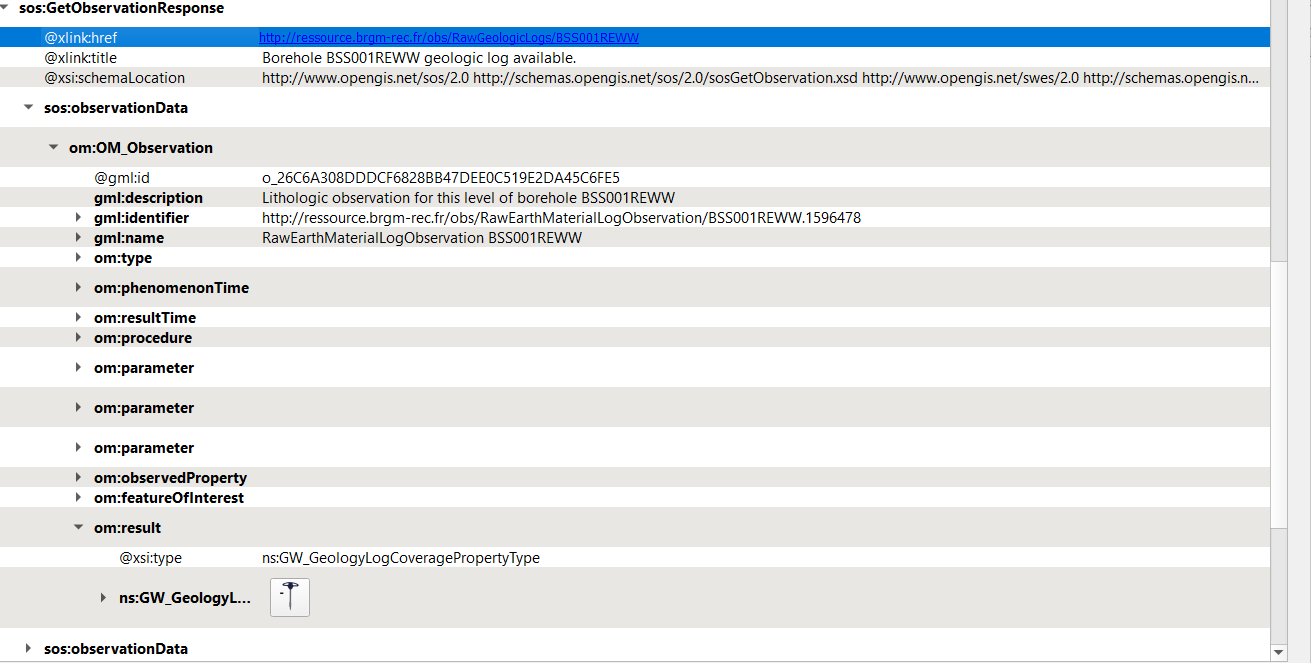
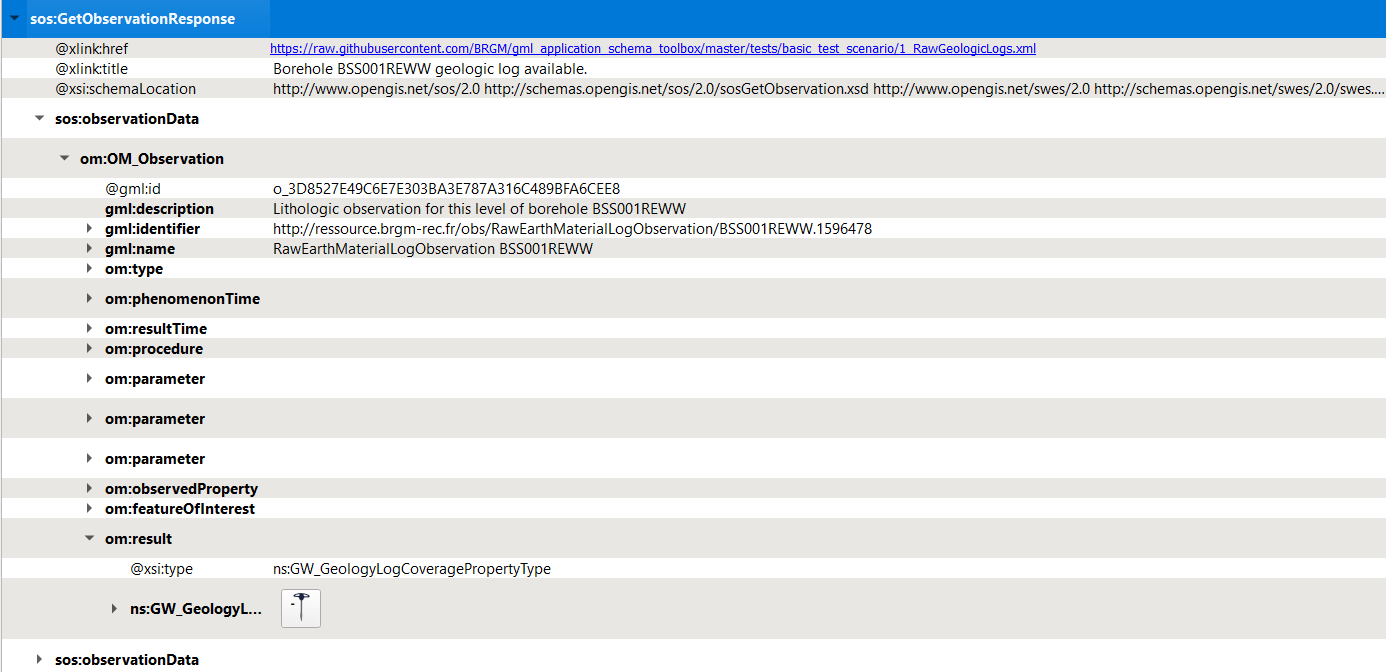
reorganizing local and URI test scenariis

diff --git a/docs/testing/scenario_basic.md b/docs/testing/scenario_basic.md
@@ -1,21 +1,16 @@
-# Local test - Basic scenario
+# XML Mode - local test scenario
 This scenario uses files stored on GitHub to avoid potential content negociation issues (network issues) with data servers
-# Local test - Complete scenario
-This scenario uses files stored on GitHub to avoid potential content negociation issues (network issues) with data servers
-# Content negociation scenario
-This scenario uses URI as opposed to files stored on GitHub thus involves content negociation with data servers
-## XML Mode
+
 0. add a WMS background image
 
    Whatever suits you, provided the entire world is visible (will help detect X/Y Axis being flipped :) )
 
 1. initial information seed
-   https://forge.brgm.fr/svnrepository/epos/trunk/instances/BoreholeView.xml
-   TODO SG add screenshot
+   https://raw.githubusercontent.com/BRGM/gml_application_schema_toolbox/master/tests/basic_test_scenario/0_BoreholeView.xml
 
-   Load wizard > 'File/Url' > Load in XML Mode
+   Load wizard > 'File/Url' > Load in XML Mode > XML Options : None > expected result : 1 new QGIS layer (BoreholeView (shape))
 
-   XML Options : None 
+   ![information_seed_displayed](../static/img/testing/1.information_seed_displayed.PNG)
 
    Then QGIS 'Identify Features' on the point added ->  expected result : features attributes from the GML SHALL be displayed
 
@@ -37,9 +32,9 @@ This scenario uses URI as opposed to files stored on GitHub thus involves conten
     
     ![sos:observationData](../static/img/testing/3.sos_observationData.PNG)
     
-    Clicking on the icon SHALL launch the viewer 
+    Clicking on the icon next to GW_GeologyLog SHALL launch the Geology log viewer (preconfigured to render OGC:GroundWaterML2.0 GeologyLogCoverage compliant content)
     
-    ![sos:GeologyLogViewer](../static/img/testing/3.Geology_log_viewer.PNG)
+    ![GeologyLogViewer](../static/img/testing/3.Geology_log_viewer.PNG)
 
 4. dereferencing another Feature (a GroundWater Quantity Monitoring Facility) 
     gsmlp:groundWaterLevel/@xlink:href > (right click) 'Resolve external' > 'As a new Layer' (ticking 'Swap X/Y) -> expected result : two new QGIS layers  (EnvironmentalMonitoringFacility (geometry) and EnvironmentalMonitoringFacility (representativePoint))
@@ -47,10 +42,67 @@ This scenario uses URI as opposed to files stored on GitHub thus involves conten
     QGIS 'Identify Features' on one of them -> expected result : features attributes from the GML SHALL be displayed
 
 5. from the Monitoring facility access groundwater observation
-    dereferencing hasObservation WML2 (http://ressource.brgm-rec.fr/obs/RawOfferingPiezo/06512X0037/STREMY.2&responseFormat=http://www.opengis.net/waterml/2.0) - testing TimeSeries widget 
+    dereferencing hasObservation (the one which title is "6512X0037 groundwater quantity observation collection (SOS and WaterML 2.0 format)")
+    ef:hasObservation/@xlink:href > (right click ) 'Resolve external' > 'Embedded' -> expected result : the content of the attribute SHALL be enriched with sos:GetObservationResponse
 
+    Expending the om:OM_Observation then the om:result -> the Timeseries viewer icon SHALL be proposed
+
+    ![sos:GetObservationResponse](../static/img/testing/5_sos_GetObservationResponse.PNG)
+ 
+    Clicking on the icon next to wml2:MeasurementTimeseries SHALL launch the TimeSeries viewer (preconfigured to render OGC:WaterML2.0 Part 1 Timeseries compliant content)
+
+    ![Timeseries_viewer](../static/img/testing/5.Timeseries_viewer.PNG)
+  
 6. from the Monitoring Facility add the GroundWater ressource monitored 
-   ef:observingCapability/ef:ObservingCapability/ef:ultimateFeatureOfInterest/xlink@href > (right click) 'Resolve external' > 'As a new Layer' -> expected result : 1 new QGIS layer GW_ConfiningBed (shape) 
+   ef:observingCapability/ef:ObservingCapability/ef:ultimateFeatureOfInterest/xlink@href > (right click) 'Resolve external' > 'As a new Layer' -> expected result : 1 new QGIS layer GW_ConfiningBed (shape).
+
+   Position it under the other features using the 'Layers Panel' for better visibility
+
+   ![GWML2_ressource](../static/img/testing/6.GWML2_ressource_added.PNG)
+
    
 7. interrogate the GroundWater ressource monitored 
    Then QGIS 'Identify Features' on the point added ->  expected result : features attributes from the GML SHALL be displayed according to OGC GWML2 Model
+
+# Relational mode (GMLAS) scenario - Local test scenario
+This scenario uses files stored on GitHub to avoid potential content negociation issues (network issues) with data servers
+
+# XML Mode - Content negociation test scenario
+
+This scenario uses URI as opposed to files stored on GitHub thus involves content negociation with data servers
+
+1. add a WMS background image
+   
+   Same as for the "XML Mode - Local test scenario"
+
+2. initial information seed
+   https://forge.brgm.fr/svnrepository/epos/trunk/instances/BoreholeView.xml
+
+   Same steps as for the "XML Mode - Local test scenario"
+   
+
+3. dereferencing vocabulary
+
+    Same steps as for the "XML Mode - Local test scenario"
+
+
+4. dereferencing a 1st feature (a geological log )
+
+   Same steps as for the "XML Mode - Local test scenario"
+
+5. dereferencing another Feature (a GroundWater Quantity Monitoring Facility) 
+
+   Same steps as for the "XML Mode - Local test scenario"
+   TODO SG : tweak the resolver conf to make this work
+
+6. from the Monitoring facility access groundwater observation
+
+   Step skipped for now as contrary to the "XML Mode - Local test scenario", the payload describing the GroundWater Quantity Monitoring Facility served via the URI does not provide a reference to a SOS XML endpoint anymore (SensorThings API instead)
+
+7. from the Monitoring Facility add the GroundWater ressource monitored 
+   
+   Same steps as for the "XML Mode - Local test scenario"
+   
+8. interrogate the GroundWater ressource monitored 
+   
+   Same steps as for the "XML Mode - Local test scenario"
